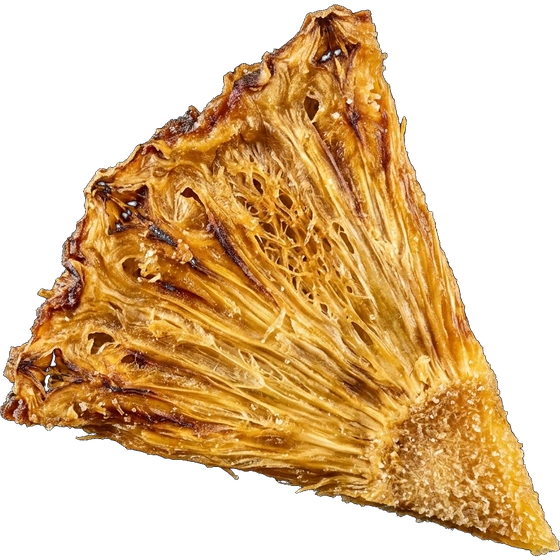
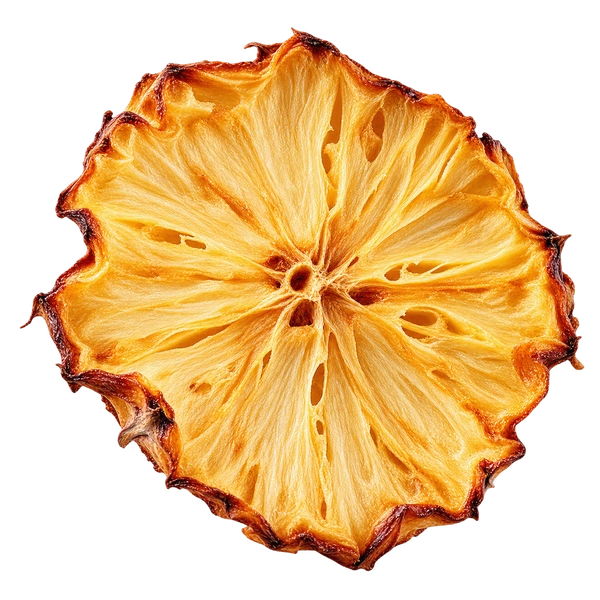
feat(dry-fruits): replace pineapple assets with exact cuts from background piña folder

diff --git a/preview/collection.html b/preview/collection.html
@@ -1234,7 +1234,7 @@ window.__adds=[];</script>
 
     <div class="cc-cursor" data-cc-cursor aria-hidden="true"><span data-cc-cursor-label></span></div>
   </section><script type="application/json" data-cc-fx-assets>
-{ "ice": "../shopify-theme/assets/ing-ice.webp", "lime-wheel": "../shopify-theme/assets/ing-lime-wheel.webp", "lime-half": "../shopify-theme/assets/ing-lime-half.webp", "lemon-wheel": "../shopify-theme/assets/ing-lemon-wheel.webp", "lemon-twist": "../shopify-theme/assets/ing-lemon-twist.webp", "orange-wheel": "../shopify-theme/assets/ing-orange-wheel.webp", "orange-peel": "../shopify-theme/assets/ing-orange-peel.webp", "grapefruit-half": "../shopify-theme/assets/ing-grapefruit-half.webp", "pineapple-wedge": "../shopify-theme/assets/ing-pineapple-wedge.webp", "pineapple-dry": "../shopify-theme/assets/ing-pineapple-dry.webp", "pineapple-twist": "../shopify-theme/assets/ing-pineapple-twist.webp", "peach": "../shopify-theme/assets/ing-peach.webp", "cranberries": "../shopify-theme/assets/ing-cranberries.webp", "mint": "../shopify-theme/assets/ing-mint.webp", "coffee-beans": "../shopify-theme/assets/ing-coffee-beans.webp", "ginger": "../shopify-theme/assets/ing-ginger.webp", "coconut-half": "../shopify-theme/assets/ing-coconut-half.webp", "agave": "../shopify-theme/assets/ing-agave.webp", "sugar-cubes": "../shopify-theme/assets/ing-sugar-cubes.webp", "juniper": "../shopify-theme/assets/ing-juniper.webp", "cherry": "../shopify-theme/assets/ing-cherry.webp", "sea-salt": "../shopify-theme/assets/ing-sea-salt.webp", "olive": "../shopify-theme/assets/ing-olive.webp", "apple": "../shopify-theme/assets/ing-apple.webp", "apple-half": "../shopify-theme/assets/ing-apple-half.webp", "apple-peel": "../shopify-theme/assets/ing-apple-peel.webp", "apple-whole": "../shopify-theme/assets/ing-apple-whole.webp" }
+{ "ice": "../shopify-theme/assets/ing-ice.webp", "lime-wheel": "../shopify-theme/assets/ing-lime-wheel.webp", "lime-half": "../shopify-theme/assets/ing-lime-half.webp", "lemon-wheel": "../shopify-theme/assets/ing-lemon-wheel.webp", "lemon-twist": "../shopify-theme/assets/ing-lemon-twist.webp", "orange-wheel": "../shopify-theme/assets/ing-orange-wheel.webp", "orange-peel": "../shopify-theme/assets/ing-orange-peel.webp", "grapefruit-half": "../shopify-theme/assets/ing-grapefruit-half.webp", "pineapple-wedge": "../shopify-theme/assets/ing-pineapple-wedge.webp", "pineapple-dry": "../shopify-theme/assets/ing-pineapple-dry.webp", "pineapple-twist": "../shopify-theme/assets/ing-pineapple-twist.webp", "pineapple-whole": "../shopify-theme/assets/ing-pineapple-whole.webp", "peach": "../shopify-theme/assets/ing-peach.webp", "cranberries": "../shopify-theme/assets/ing-cranberries.webp", "mint": "../shopify-theme/assets/ing-mint.webp", "coffee-beans": "../shopify-theme/assets/ing-coffee-beans.webp", "ginger": "../shopify-theme/assets/ing-ginger.webp", "coconut-half": "../shopify-theme/assets/ing-coconut-half.webp", "agave": "../shopify-theme/assets/ing-agave.webp", "sugar-cubes": "../shopify-theme/assets/ing-sugar-cubes.webp", "juniper": "../shopify-theme/assets/ing-juniper.webp", "cherry": "../shopify-theme/assets/ing-cherry.webp", "sea-salt": "../shopify-theme/assets/ing-sea-salt.webp", "olive": "../shopify-theme/assets/ing-olive.webp", "apple": "../shopify-theme/assets/ing-apple.webp", "apple-half": "../shopify-theme/assets/ing-apple-half.webp", "apple-peel": "../shopify-theme/assets/ing-apple-peel.webp", "apple-whole": "../shopify-theme/assets/ing-apple-whole.webp" }
 </script>
 
 <script src="../shopify-theme/assets/can-carousel.js?v=2.2" defer="defer"></script>

diff --git a/shopify-theme/assets/can-carousel.js b/shopify-theme/assets/can-carousel.js
@@ -38,7 +38,7 @@
     es: {
       'lime-wheel': 'Lima', 'lime-half': 'Lima', 'lemon-wheel': 'Limón', 'lemon-twist': 'Twist de limón',
       'orange-wheel': 'Naranja', 'orange-peel': 'Piel de naranja', 'grapefruit-half': 'Toronja',
-      'pineapple-wedge': 'Piña', 'pineapple-dry': 'Piña Deshidratada', 'pineapple-twist': 'Twist de Piña',
+      'pineapple-wedge': 'Piña', 'pineapple-dry': 'Piña Deshidratada', 'pineapple-twist': 'Twist de Piña', 'pineapple-whole': 'Piña Entera',
       peach: 'Durazno', cranberries: 'Cranberry', mint: 'Menta',
       'coffee-beans': 'Café', ginger: 'Jengibre', 'coconut-half': 'Coco', agave: 'Agave',
       'sugar-cubes': 'Azúcar', juniper: 'Enebro', cherry: 'Cereza', 'sea-salt': 'Sal marina',
@@ -48,7 +48,7 @@
     en: {
       'lime-wheel': 'Lime', 'lime-half': 'Lime', 'lemon-wheel': 'Lemon', 'lemon-twist': 'Lemon twist',
       'orange-wheel': 'Orange', 'orange-peel': 'Orange peel', 'grapefruit-half': 'Grapefruit',
-      'pineapple-wedge': 'Pineapple', 'pineapple-dry': 'Dried Pineapple', 'pineapple-twist': 'Pineapple Twist',
+      'pineapple-wedge': 'Pineapple', 'pineapple-dry': 'Dried Pineapple', 'pineapple-twist': 'Pineapple Twist', 'pineapple-whole': 'Fresh Whole Pineapple',
       peach: 'Peach', cranberries: 'Cranberry', mint: 'Mint',
       'coffee-beans': 'Coffee', ginger: 'Ginger', 'coconut-half': 'Coconut', agave: 'Agave',
       'sugar-cubes': 'Sugar', juniper: 'Juniper', cherry: 'Cherry', 'sea-salt': 'Sea salt',
@@ -81,13 +81,13 @@
     'lemon-dry': ['lemon-wheel', 'lemon-twist', 'lemon-wheel', 'lemon-twist', 'lemon-wheel', 'lemon-twist'],
     'manzana-dry': ['apple-half', 'apple-peel', 'apple-whole', 'apple', 'apple-half', 'apple-peel', 'apple'],
     'naranja-dry': ['orange-wheel', 'orange-peel', 'orange-wheel', 'orange-peel', 'orange-wheel', 'orange-peel'],
-    'pina-dry': ['pineapple-dry', 'pineapple-wedge', 'pineapple-twist', 'pineapple-dry', 'pineapple-wedge', 'pineapple-twist'],
+    'pina-dry': ['pineapple-wedge', 'pineapple-twist', 'pineapple-whole', 'pineapple-dry', 'pineapple-wedge', 'pineapple-twist', 'pineapple-dry'],
     'signature-box': ['cherry', 'orange-wheel', 'lemon-twist', 'olive', 'ice']
   };
 
   var FX_SIZE = {
     'lime-wheel': 1, 'lime-half': 1, 'lemon-wheel': 1, 'lemon-twist': 0.95, 'orange-wheel': 1.05, 'orange-peel': 1.05,
-    'grapefruit-half': 1.1, 'pineapple-wedge': 1.15, 'pineapple-dry': 1.1, 'pineapple-twist': 1.15, peach: 1.15, cranberries: 0.85, mint: 1, 'coffee-beans': 0.85,
+    'grapefruit-half': 1.1, 'pineapple-wedge': 1.15, 'pineapple-dry': 1.1, 'pineapple-twist': 1.2, 'pineapple-whole': 1.3, peach: 1.15, cranberries: 0.85, mint: 1, 'coffee-beans': 0.85,
     ginger: 1.1, 'coconut-half': 1.2, agave: 1.05, 'sugar-cubes': 0.85, juniper: 0.95, cherry: 0.85, 'sea-salt': 0.9,
     olive: 1.05, ice: 0.95, 'blue-wheel': 1.05, apple: 1.15, 'apple-half': 1.2, 'apple-peel': 1.2, 'apple-whole': 1.25
   };
@@ -151,7 +151,7 @@
           can: 'pkg-pina-dry.webp',
           chips: ['Piña madura seleccionada', 'Corte artesanal', '100% Fruta real', 'Sin azúcar añadida'],
           ritual: 'Acompañar cócteles tiki, rones añejos o mocktails para un toque exótico y aromático.',
-          recipe: ['pineapple-dry', 'pineapple-wedge', 'pineapple-twist', 'pineapple-dry', 'pineapple-wedge', 'pineapple-twist']
+          recipe: ['pineapple-wedge', 'pineapple-twist', 'pineapple-whole', 'pineapple-dry', 'pineapple-wedge', 'pineapple-twist', 'pineapple-dry']
         },
         {
           handle: 'manzana-dry',
